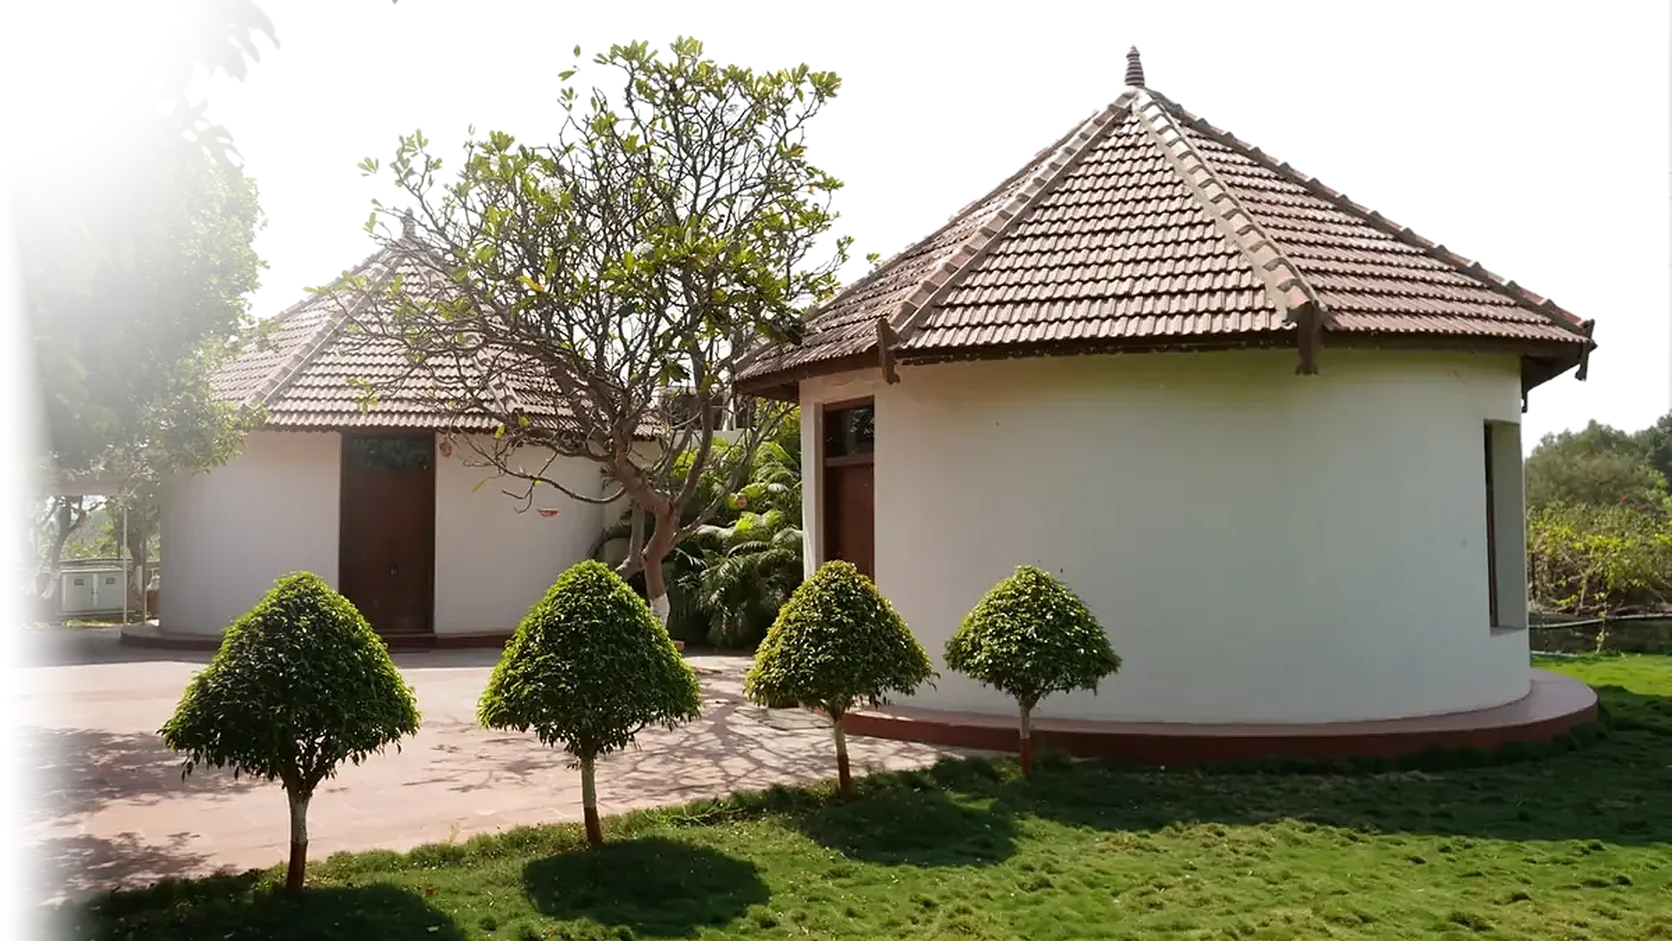
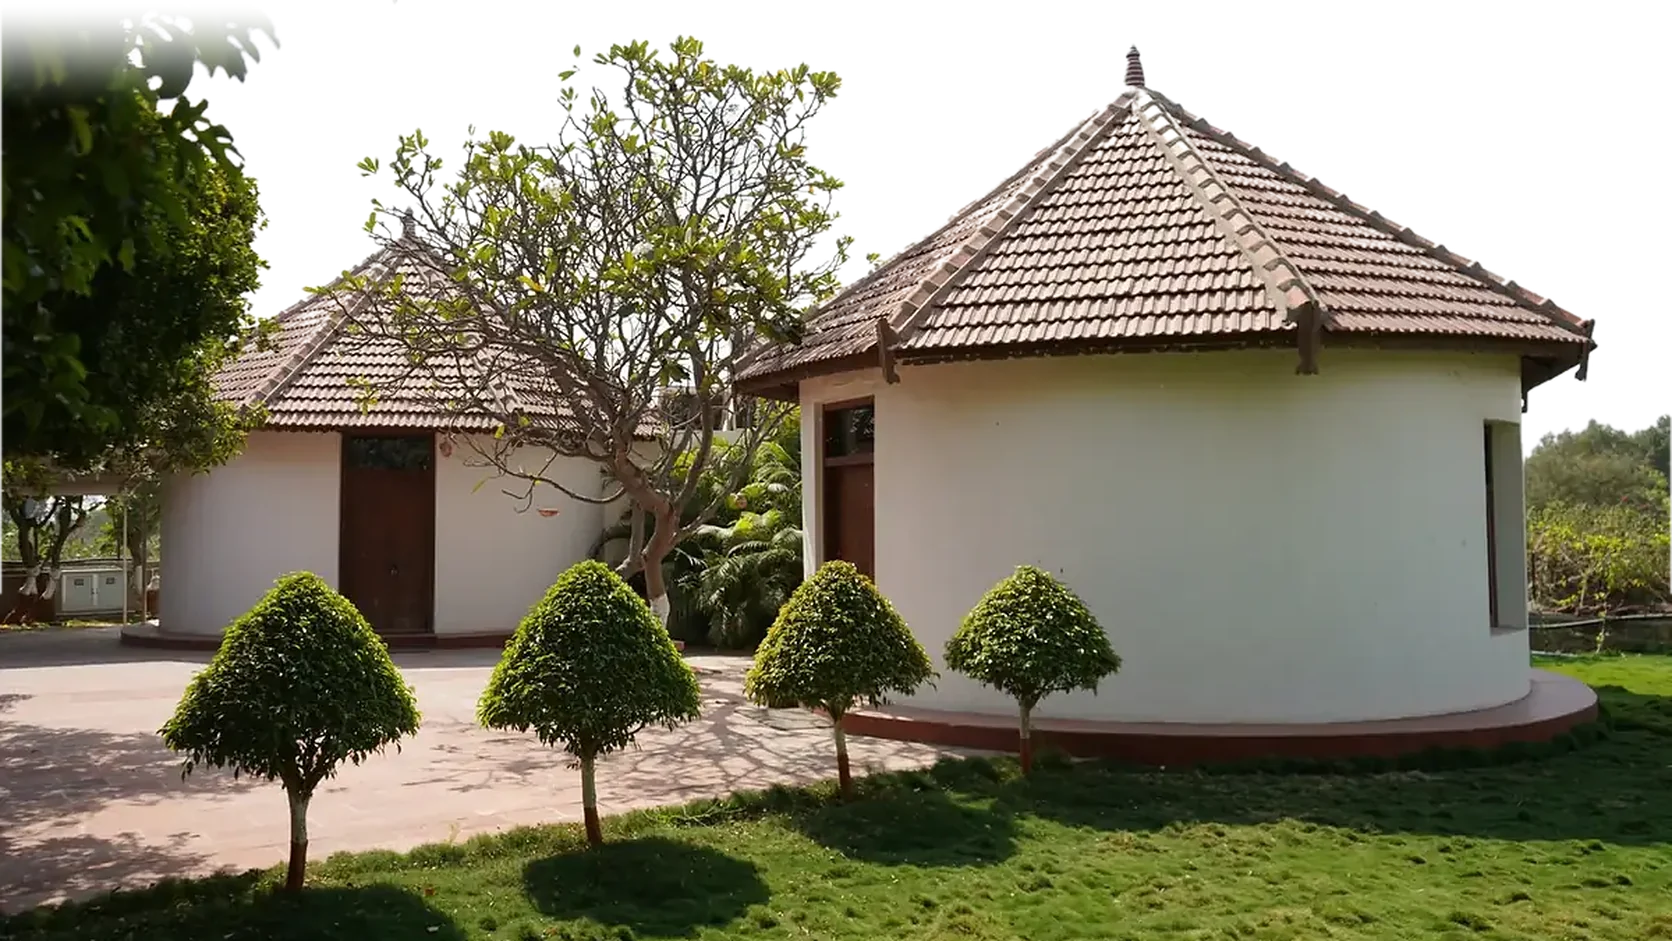
Story: the campus with only its sky cut away, the flowering tree behind
The user: no fade on the campus picture, keep its green tree and the
huts, take away only the plain sky; the flowering tree stands behind
it. The green tree's top, cut by the photograph's edge, is softened a
little at the top left only. The phone picture's top rows of sky are
cut away too.

diff --git a/assets/sj-home.css b/assets/sj-home.css
@@ -2131,7 +2131,7 @@ html.sj-pre .dh__strip {
    The Shrujan story
    ------------------------------------------------------------
    One composed stage, laid out on a 1536 × 1264 frame: the bougainvillea
-   behind, the Shrujan campus at Ajrakhpur (its sky taken out, the tree at its top left faded) across the
+   behind, the Shrujan campus at Ajrakhpur (only its sky taken out; the flowering tree stands behind it) across the
    full width at the foot (the user: the campus, not a scenic still life),
    the title, its lines and the way on in the middle, the founder and the
    Rolex Award down the right, and the facts in a dark box at the foot (the
